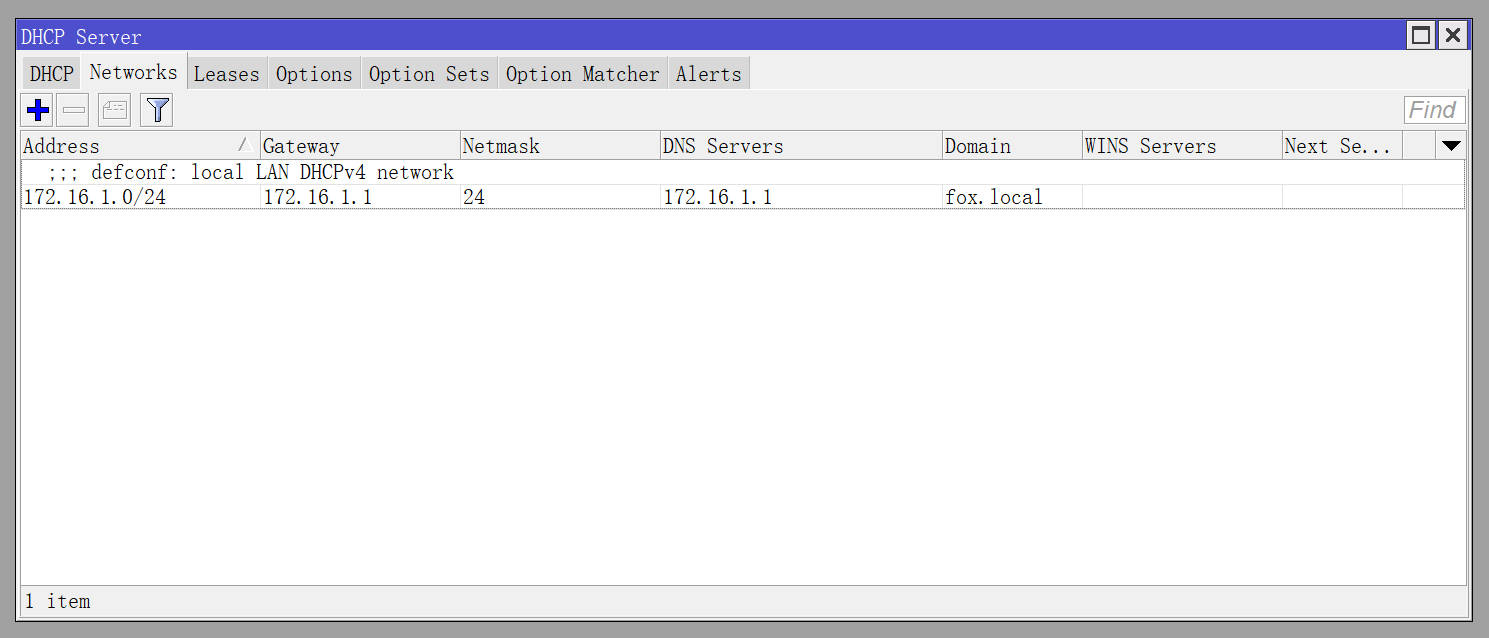
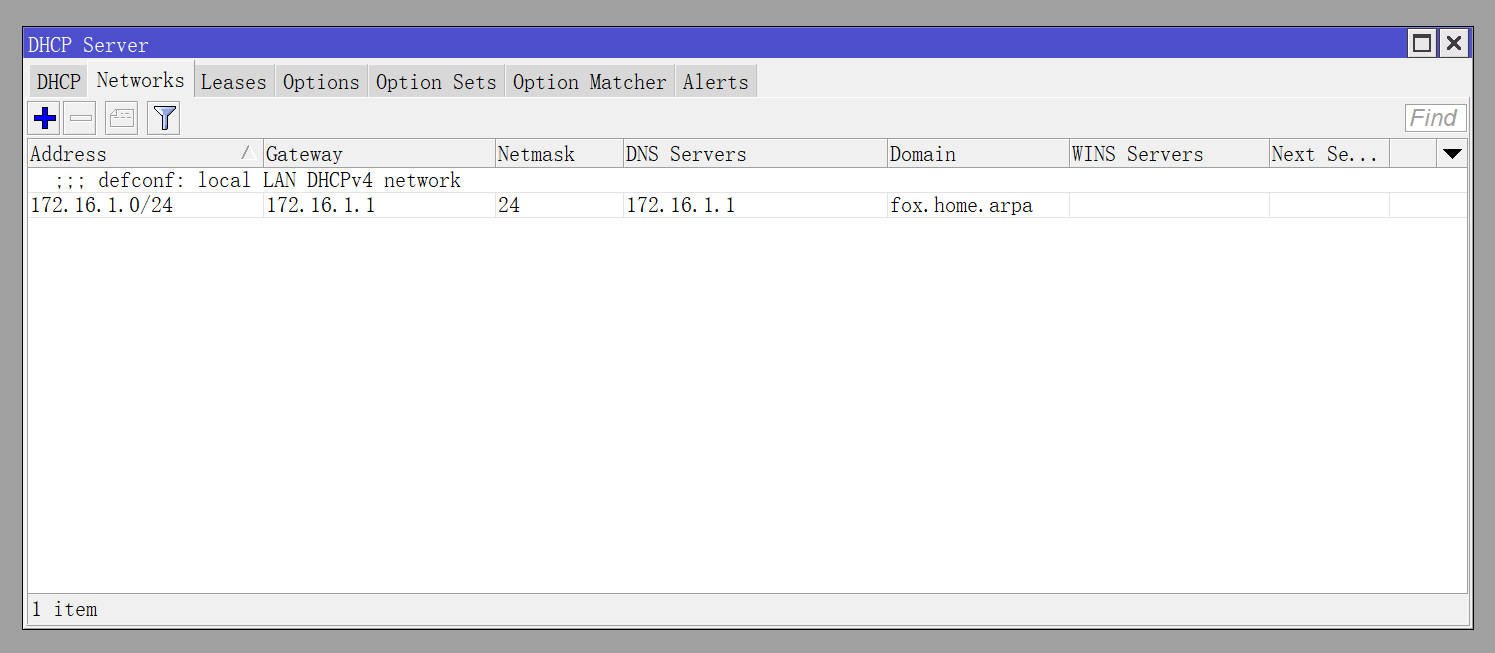
同步更新

diff --git a/04.设置DHCPv4.md b/04.设置DHCPv4.md
@@ -55,7 +55,7 @@ DHCPv4 服务器创建完成后如图所示。
 |Gateway|`172.16.1.1`|
 |Netmask|`24`|
 |DNS Server|`172.16.1.1`|
-|Domain|`fox.local` (可选)|
+|Domain|`fox.home.arpa` (可选)|
 |Comment|`defconf: local LAN DHCPv4 network`|
 
 ![创建DHCP服务器网络](img/p04/add_dhcp_server_network.jpeg)
@@ -66,7 +66,7 @@ DHCPv4 服务器网络参数设置完成后，如图所示。
 
 此时重连一次电脑的网络，电脑将能够从 RouterOS 获取到 IPv4 地址。  
 
-![电脑正确获取IP地址](img/p04/pc_dhcp_status.png)
+![电脑正确获取IP地址](img/p04/pc_dhcp_status.jpeg)
 
 ## 2. DHCPv4 使用内网 DNS
 
